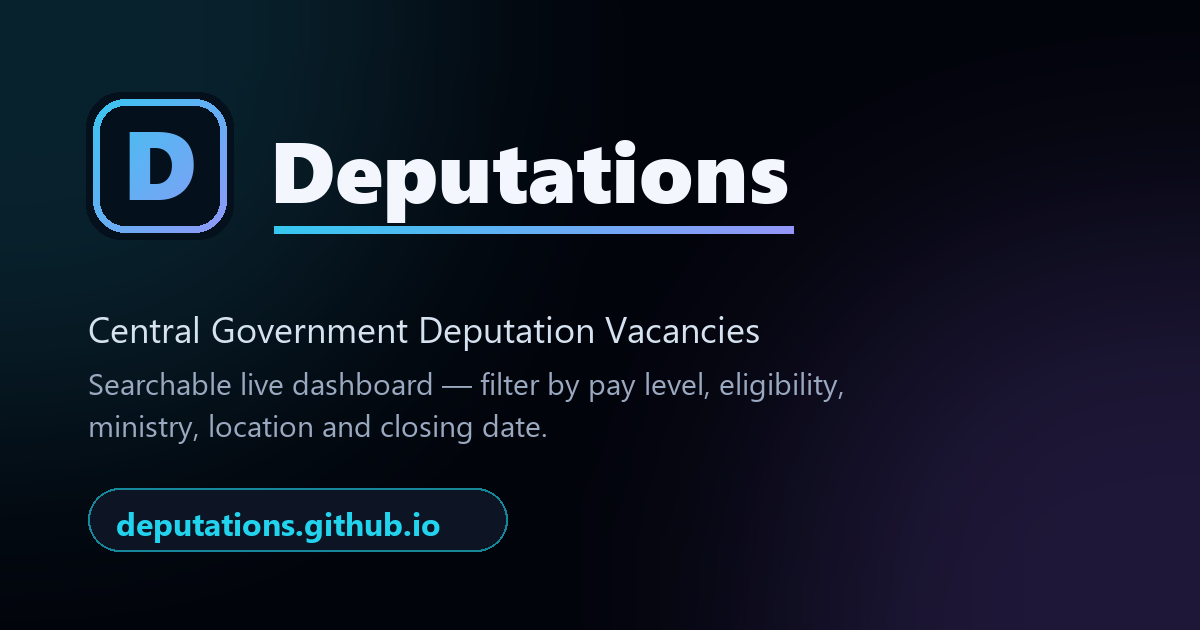
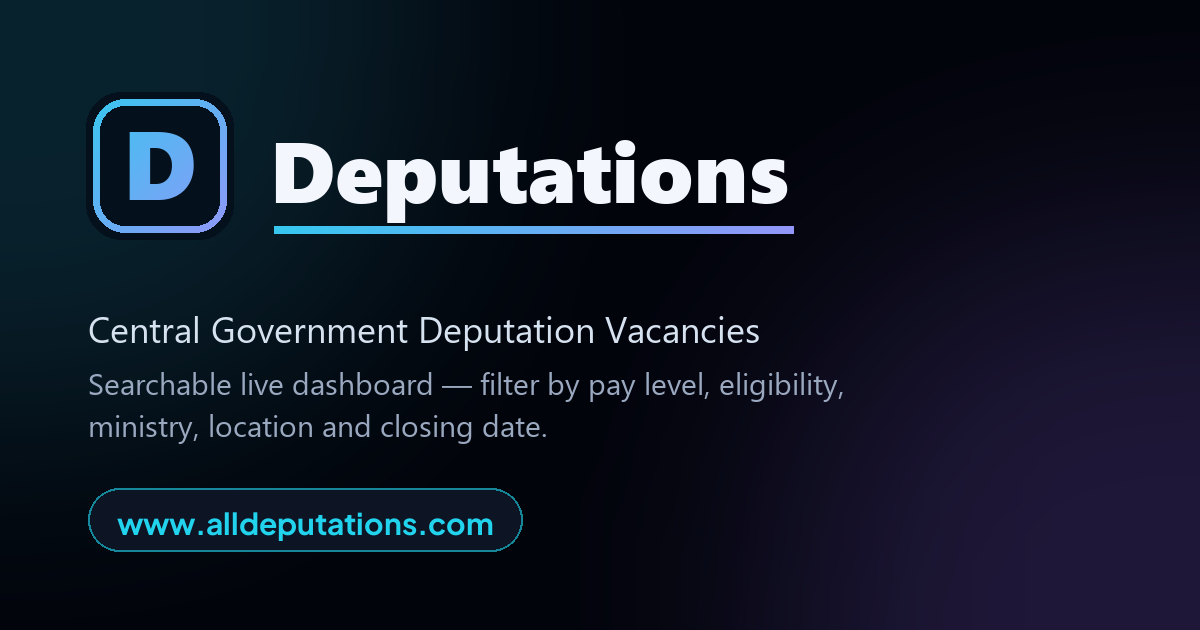
fix(og): link preview card showed deputations.github.io
Sharing alldeputations.com rendered a WhatsApp card advertising the old
GitHub Pages domain. The og:image/og:url meta tags were already correct —
the URL was baked into the PNG artwork itself.

Repaint the pill in assets/brand/og-home.png in place:
- font identified by pixel-matching the existing glyphs (Plus Jakarta Sans
  Bold 30px, the site's own display face)
- old pill erased, background gradient rebuilt by Coons-patch interpolation
- pill redrawn with the measured originals: fill #0D1424, 2px #22D3EE stroke
  at alpha 160 over the background, radius 32, left edge x=88, same baseline
- 420 -> 435px wide; padding was a lopsided 29/69, now symmetric at 29

Verified by rebuilding the original pill first and diffing (mean error
0.013/255); every pixel outside the pill band is byte-identical.

Bump og:image + twitter:image to og-home.png?v=2 — WhatsApp, Facebook and X
cache OG images by URL and would otherwise keep serving the old card.

Also fix a comment in scripts/build_og_images.py that described the
per-vacancy footer as deputations.github.io when it draws alldeputations.com.

Changed region(s): [[0.0925, 0.754, 0.4625, 0.8746]]

diff --git a/defex.html b/defex.html
@@ -21,13 +21,13 @@
   <meta property="og:title" content="DeFeX — Deputation Friendliness Index">
   <meta property="og:description" content="A transparency layer for India's deputation system — what a parent Ministry, Department or CCA's rules say, what reports show, and what to do next, with confidence shown next to every score.">
   <meta property="og:url" content="https://alldeputations.com/defex.html">
-  <meta property="og:image" content="https://alldeputations.com/assets/brand/og-home.png">
+  <meta property="og:image" content="https://alldeputations.com/assets/brand/og-home.png?v=2">
   <meta property="og:image:width" content="1200">
   <meta property="og:image:height" content="630">
   <meta name="twitter:card" content="summary_large_image">
   <meta name="twitter:title" content="DeFeX — Deputation Friendliness Index">
   <meta name="twitter:description" content="A transparency layer for India's deputation system — what a parent Ministry, Department or CCA's rules say, what reports show, and what to do next, with confidence shown next to every score.">
-  <meta name="twitter:image" content="https://alldeputations.com/assets/brand/og-home.png">
+  <meta name="twitter:image" content="https://alldeputations.com/assets/brand/og-home.png?v=2">
 
   <script>(function(){try{var t=localStorage.getItem('deputation_theme_v1')||'dark';document.documentElement.setAttribute('data-theme',t);}catch(e){document.documentElement.setAttribute('data-theme','dark');}})();</script>
   <link rel="stylesheet" href="style.css?v=ms33">

diff --git a/index.html b/index.html
@@ -58,13 +58,13 @@
   <meta property="og:title" content="Deputations — Central Deputation Vacancies">
   <meta property="og:description" content="Live, searchable Central Government deputation vacancies — filter by pay level, eligibility, ministry, location and closing date.">
   <meta property="og:url" content="https://alldeputations.com/">
-  <meta property="og:image" content="https://alldeputations.com/assets/brand/og-home.png">
+  <meta property="og:image" content="https://alldeputations.com/assets/brand/og-home.png?v=2">
   <meta property="og:image:width" content="1200">
   <meta property="og:image:height" content="630">
   <meta name="twitter:card" content="summary_large_image">
   <meta name="twitter:title" content="Deputations — Central Deputation Vacancies">
   <meta name="twitter:description" content="Live, searchable Central Government deputation vacancies — filter by pay level, eligibility, ministry, location and closing date.">
-  <meta name="twitter:image" content="https://alldeputations.com/assets/brand/og-home.png">
+  <meta name="twitter:image" content="https://alldeputations.com/assets/brand/og-home.png?v=2">
 
   <link rel="preconnect" href="https://fonts.googleapis.com">
   <link rel="preconnect" href="https://fonts.gstatic.com" crossorigin>

diff --git a/upcoming-projects.html b/upcoming-projects.html
@@ -21,13 +21,13 @@
   <meta property="og:title" content="Upcoming Projects — Deputations">
   <meta property="og:description" content="Vote on what we build next and share your suggestions.">
   <meta property="og:url" content="https://alldeputations.com/upcoming-projects.html">
-  <meta property="og:image" content="https://alldeputations.com/assets/brand/og-home.png">
+  <meta property="og:image" content="https://alldeputations.com/assets/brand/og-home.png?v=2">
   <meta property="og:image:width" content="1200">
   <meta property="og:image:height" content="630">
   <meta name="twitter:card" content="summary_large_image">
   <meta name="twitter:title" content="Upcoming Projects — Deputations">
   <meta name="twitter:description" content="Vote on what we build next and share your suggestions.">
-  <meta name="twitter:image" content="https://alldeputations.com/assets/brand/og-home.png">
+  <meta name="twitter:image" content="https://alldeputations.com/assets/brand/og-home.png?v=2">
 
   <!-- theme bootstrap (before stylesheets, prevents FOUC) -->
   <script>(function(){try{var t=localStorage.getItem('deputation_theme_v1')||'dark';document.documentElement.setAttribute('data-theme',t);}catch(e){document.documentElement.setAttribute('data-theme','dark');}})();</script>

diff --git a/scripts/build_og_images.py b/scripts/build_og_images.py
@@ -204,7 +204,7 @@ def make_image(row, out_path):
         d.text((pill_x + 16, pill_y + 7), text, font=FONT_SM, fill=fg)
         pill_x += tw + 12
 
-    # Tiny footer: deputations.github.io URL
+    # Tiny footer: site URL
     d.text((60, H - 36), "alldeputations.com", font=FONT_TINY, fill=TXT_DIM)
 
     img.save(out_path, "PNG", optimize=True)

diff --git a/CHANGELOG.md b/CHANGELOG.md
@@ -140,6 +140,39 @@ checks passed.
 
 ---
 
+### Fixed — link preview card still advertised deputations.github.io
+
+Sharing `alldeputations.com` on WhatsApp rendered a card whose artwork carried
+a `deputations.github.io` pill. The `og:image` / `og:url` meta tags were
+already correct — the old domain was **baked into the PNG**, so no amount of
+tag auditing would have found it.
+
+`assets/brand/og-home.png` repainted in place, pill only:
+
+- font identified by pixel-matching candidates against the existing glyphs —
+  Plus Jakarta Sans Bold @ 30px, the site's own display face
+- old pill erased and the background gradient rebuilt underneath by
+  Coons-patch interpolation (validated against clean control regions of the
+  same size: mean error 0.29/255, max 1.56)
+- pill redrawn with the measured originals: fill `#0D1424`, 2px `#22D3EE`
+  stroke at alpha 160/255 composited over the *background* (not over the
+  fill — that is what the channel arithmetic showed), radius 32, left edge
+  x=88 to stay aligned with the logo and subtitle, unchanged baseline
+- width 420 -> 435px; padding was a lopsided 29/69, now symmetric at 29
+
+Method was verified by rebuilding the *original* pill first and diffing:
+mean error 0.013/255. Every pixel outside the pill band is byte-identical.
+
+`og:image` + `twitter:image` bumped to `og-home.png?v=2` in `index.html`,
+`defex.html`, `upcoming-projects.html` and `astro/src/layouts/Layout.astro`.
+Without this the platforms keep serving the card they already cached.
+
+Also corrected a comment in `scripts/build_og_images.py` that described the
+per-vacancy footer as `deputations.github.io` when it draws
+`alldeputations.com`.
+
+---
+
 ## [7.4.4] — 2026-08-10
 
 ### Fixed — admin Projects tab edits no longer reached the public page
